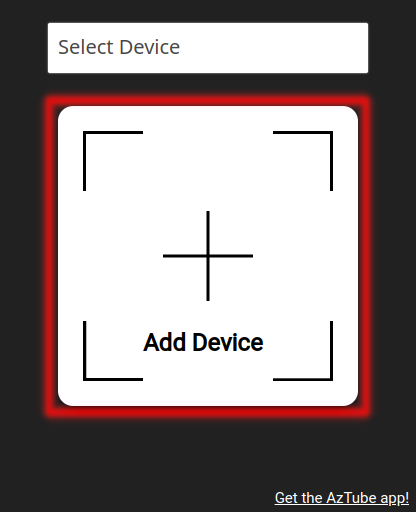
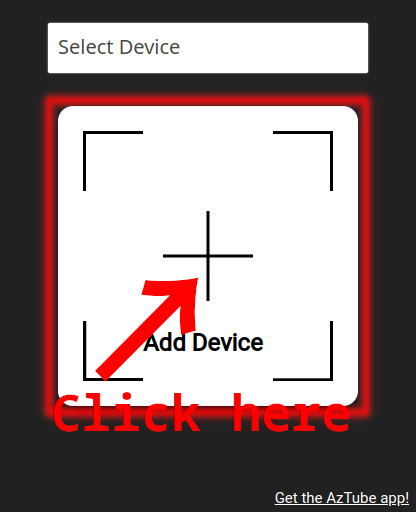
Update Screenhot

Changed region(s): [[0.125, 0.5312, 0.5, 0.8438], [0.5625, 0.75, 0.8438, 0.8438]]

diff --git a/aztube/introduction.md b/aztube/introduction.md
@@ -34,8 +34,8 @@ You can link your devices with the following steps:
 2. Now click on the "Add Device" image in the popup that appears
     - Now instead of the "Add Device" image a QR code should have appeared
     ==- Screenshots
-    ![Add Device Region](../ressources/add-device-region.png "Click on that region")
-    ![After click](../ressources/generate-code.png "After click code should appear")
+    ![Add Device Region](../ressources/add-device-region.png)
+    ![Generated Code](../ressources/generated-code.png)
     ==-
 3. Now open the AzTube Downloader app on your phone and click on "Link Device"
     - **Authorization to use the camera is required for the linking process**
